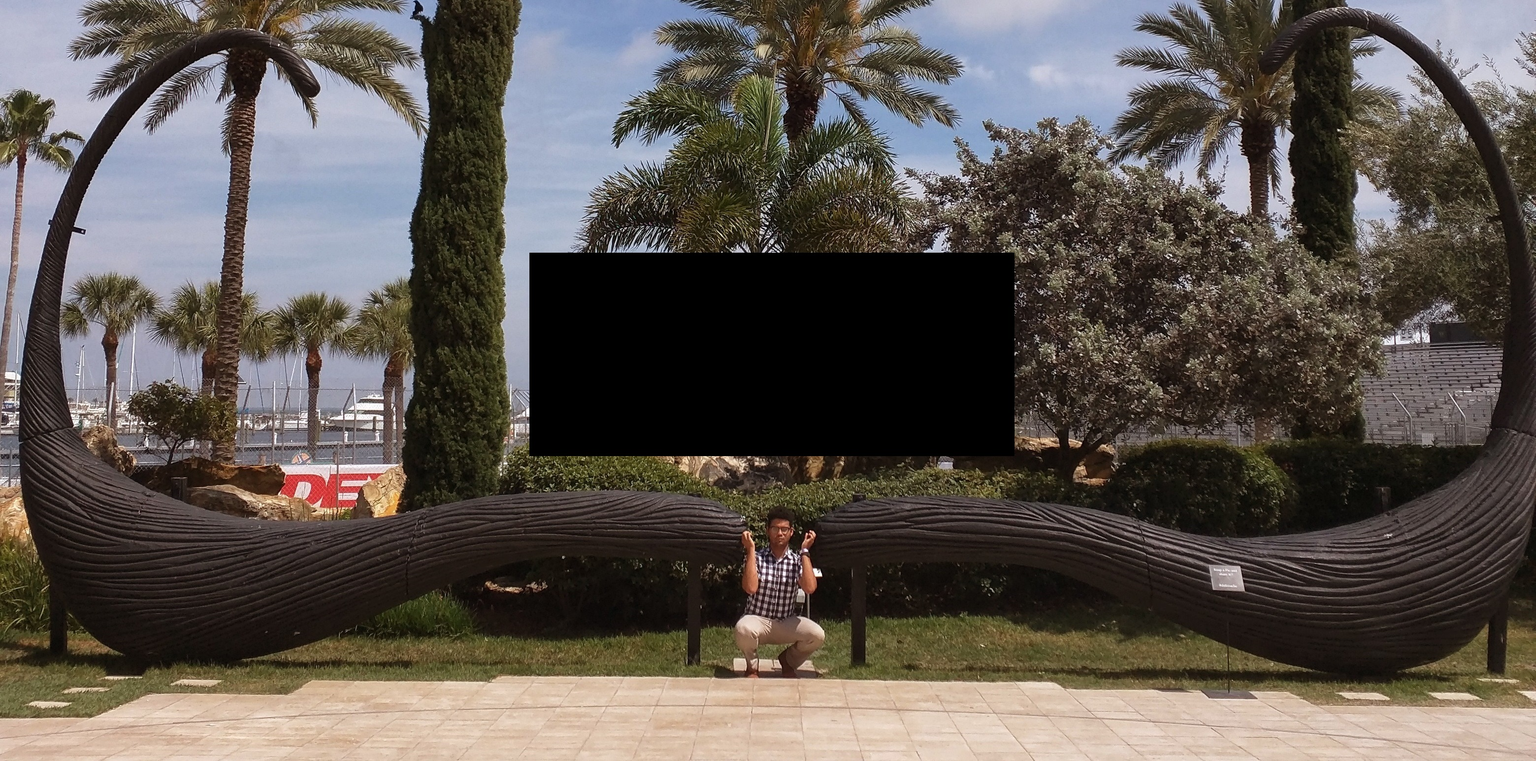
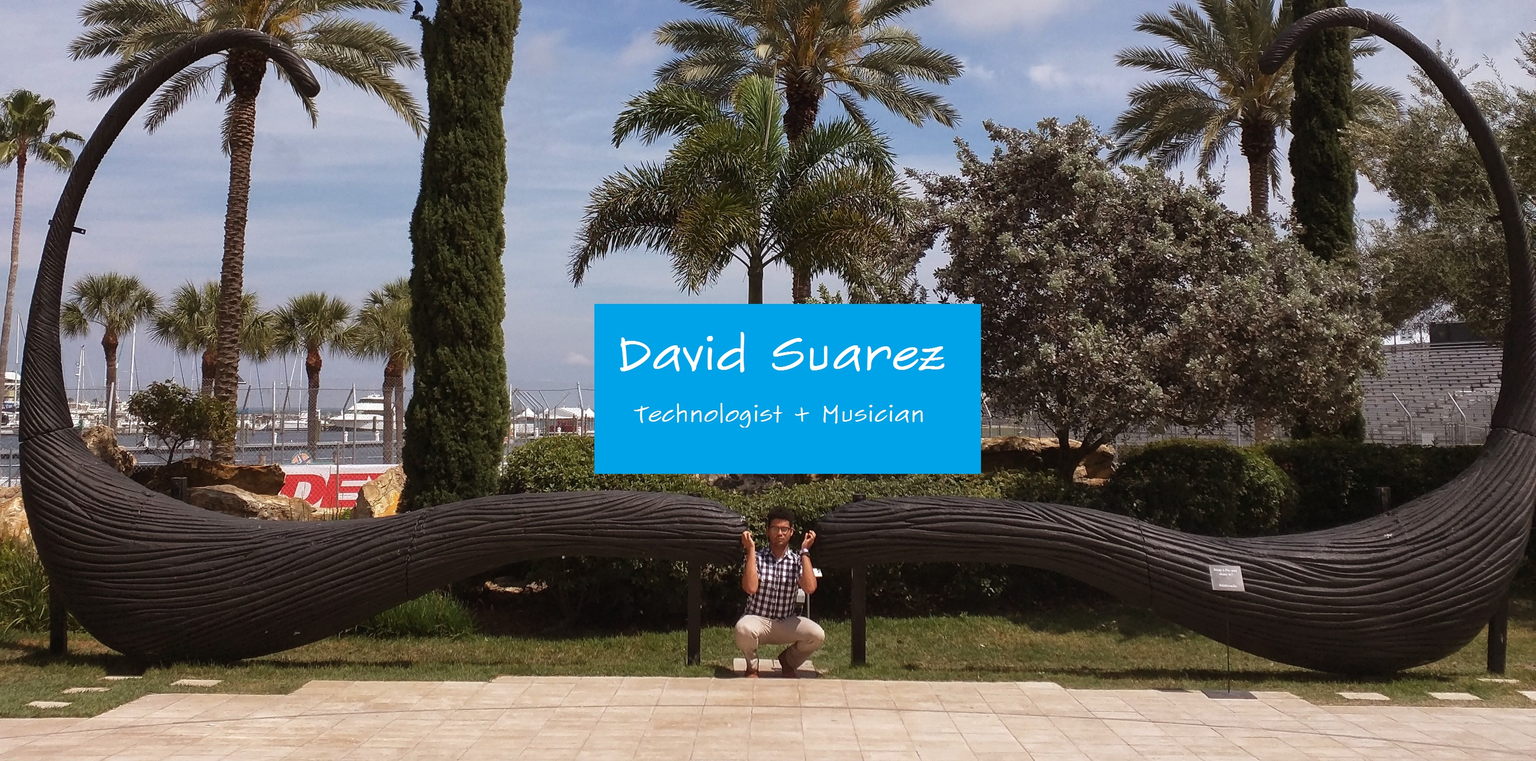
img

Changed region(s): [[0.3421, 0.3107, 0.6842, 0.6214]]

diff --git a/index.html b/index.html
@@ -44,8 +44,8 @@
     <!-- Header -->
     <header id="top" class="header">
         <div class="text-vertical-center">
-            <h1 style="color: white">David Suarez</h1>
-            <h3 style="color: white">Technologist + Musician</h3>
+            <h1 style="color: white"></h1>
+            <h3 style="color: white"></h3>
             <br>
 
         </div>
